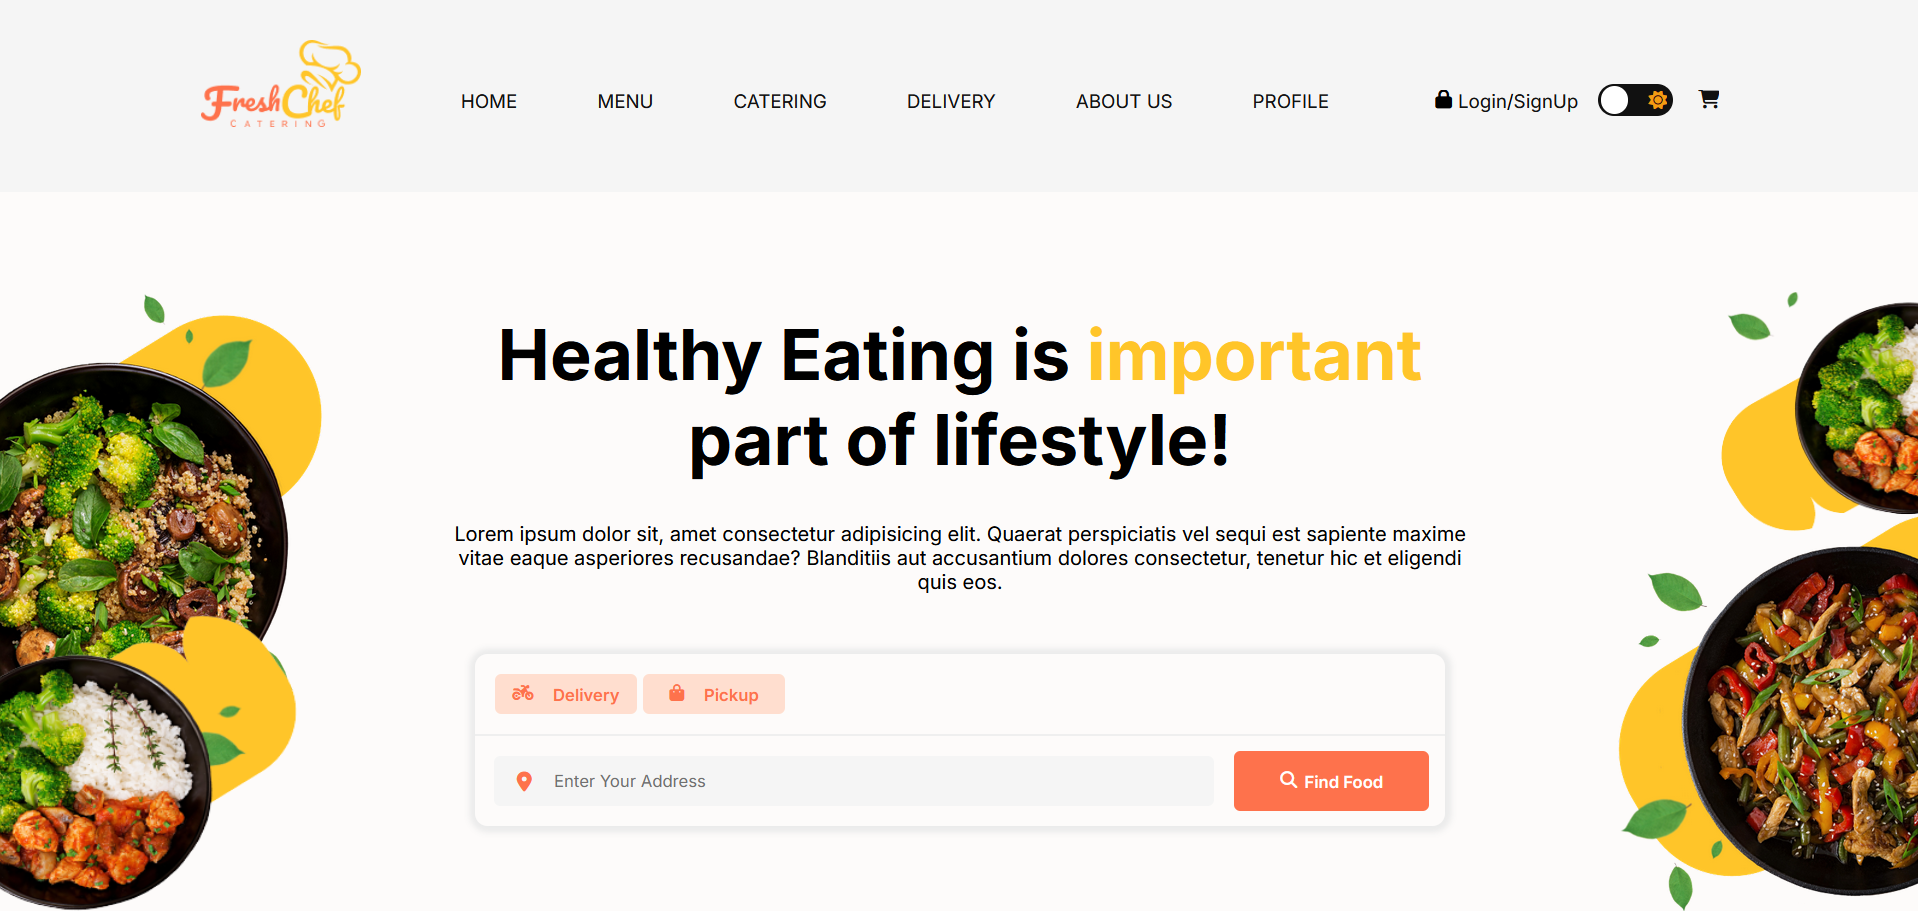
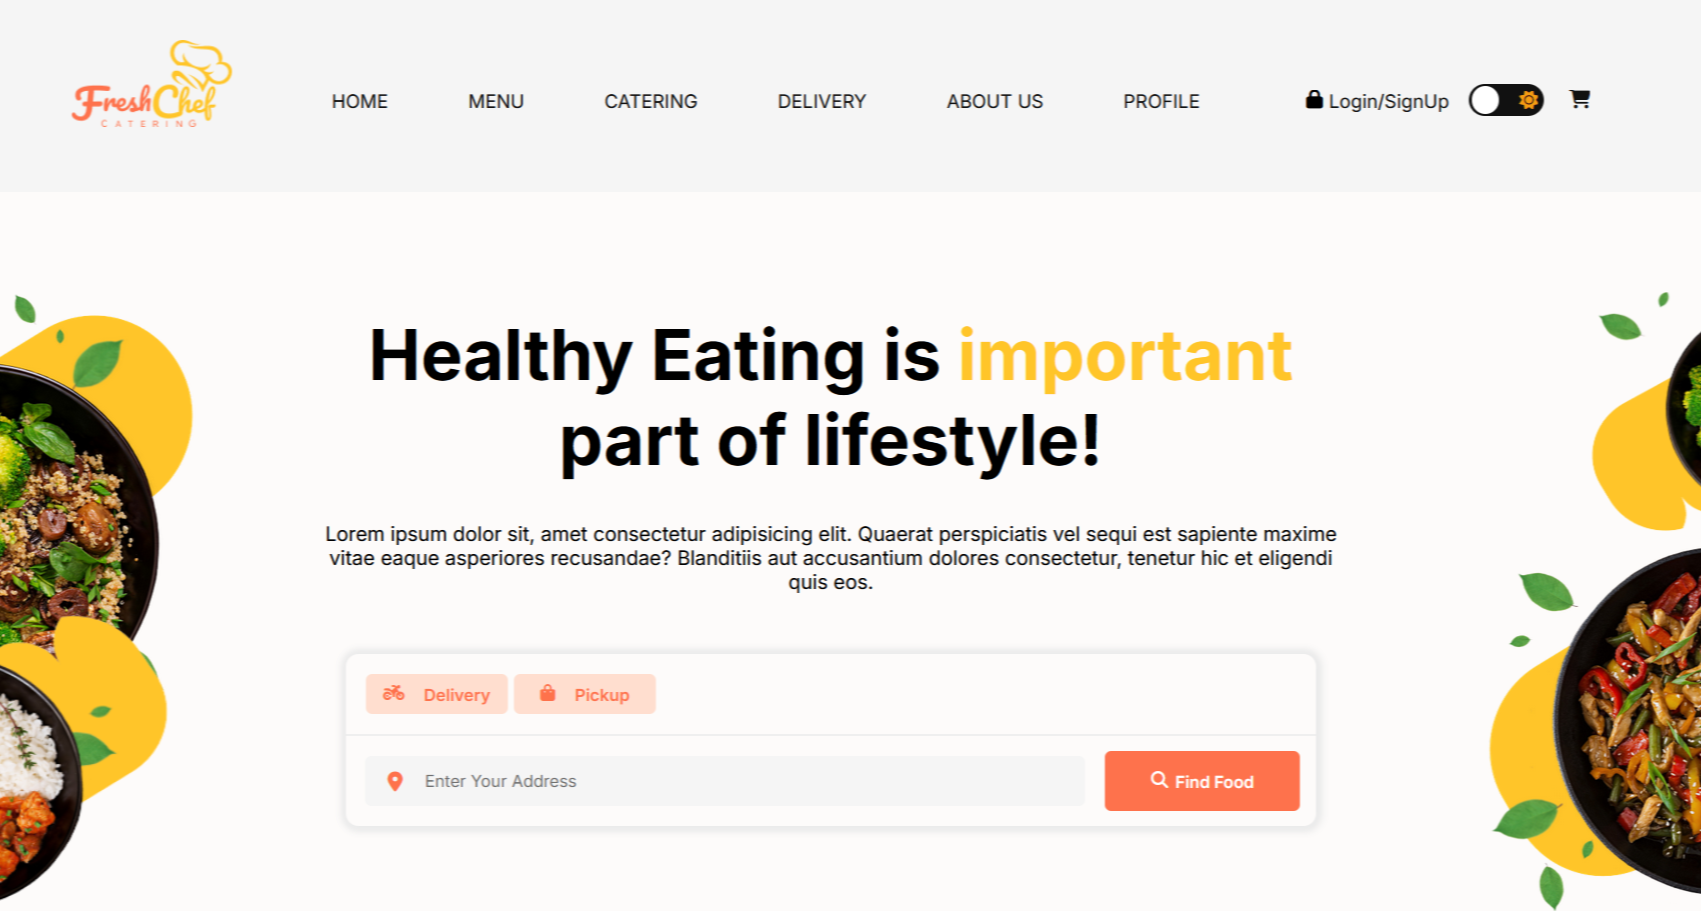
updated_2026_January_data

diff --git a/index.html b/index.html
@@ -6,7 +6,7 @@
     <meta name="viewport" content="width=device-width, initial-scale=1, shrink-to-fit=no">
     <meta name="description" content="Start your development with Meyawo landing page.">
     <meta name="author" content="Devcrud">
-    <title>Nadeera Binoli | Front end developer</title>
+    <title>Nadeera Binoli | Full-Stack developer</title>
     <!-- Bootstrap + Meyawo main styles -->
     <link rel="stylesheet" href="assets/css/meyawo.css">
     <!-- font awesome link -->
@@ -58,7 +58,7 @@
                 <span class="up">Ayubowan!</span>
                 <span class="down">I'm Nadeera Binoli</span>
             </h1>
-            <p class="header-subtitle">FRONTEND DEVELOPER</p>
+            <p class="header-subtitle">FULL-STACK DEVELOPER</p>
 
             <div class="socialIcons">
                 <a href="https://github.com/NadeeraBinoli"><i class="fa-brands fa-github"></i></a>
@@ -143,7 +143,15 @@
                     <p class="section-subtitle">Who Am I ?</p>
                     <h2 class="section-title mb-3">About Me</h2>
                     <p>
-                        Hello! I’m Nadeera Binoli. I am a Front-end developer based in Sri Lanka, currently studying for a Bachelor of Information Technology (BIT) at ESOFT Metro Campus.I'm in my second year and have a strong passion for creating websites. I love learning new things on my own, working for myself to improve my skills, and keeping up with the latest web trends. Check out my portfolio to see some of the projects I've worked on. Each one shows my dedication to making user-friendly and attractive websites. </p>
+                        Hello! I’m Nadeera Binoli. I’m a 4th-year Bachelor of Information Technology (Honours) undergraduate, specializing in Software Engineering, and currently working as a Full-Stack Developer Intern @ TechSeed Lanka. <br><br>
+
+My journey into tech began with curiosity and quickly grew into a drive to create systems that solve real-world problems—especially those that impact people’s daily lives. <br><br>
+
+I enjoy taking ideas from concept to implementation, working across both front-end and back-end to deliver reliable and scalable applications. I consider myself a strong problem solver, a fast learner, and someone who enjoys tackling challenges through logical thinking and continuous improvement.<br><br>
+
+My ultimate goal is to become a well-rounded software engineer who not only writes code but creates impact.<br><br>
+
+Let’s connect if you're into tech, startups, or just enjoy building cool things from scratch! </p>
                     <button class="btn btn-outline-primary  mt-4">Download CV</button>
                 </div>
             </div><!-- end of about wrapper -->
@@ -181,9 +189,12 @@
                             <h5>HTML</h5>
                             <h5>CSS</h5>
                             <h5>JavaScript</h5>
+                            <h5>Laravel</h5>
+                            <h5>Vue.js</h5>
                             <h5>Java</h5>
                             <h5>C</h5>
-                            <h5>MySql</h5>
+                            <h5>C#</h5>
+                            <h5>MySQL</h5>
                             <h5>Bootstrap</h5>
                             <h5>PHP</h5>
                             <h5>Node.js</h5> 
@@ -223,17 +234,17 @@
                         <h4>Bachelor of Information Technology Honours</h4>
                         <h5>2022 - Present</h5>
                         <p><em>ESOFT Metro Campus, Colombo, Sri Lanka</em></p>
-                        <p>Course which is held in four years, I'm currently on my 2nd year (3.20 GPA) and expected to graduate in 2026. Expecting to start my specialization based on software engineering from next year.</p>
+                        <p>Course which is held in four years, I'm currently on my final year (3.55 GPA) and expected to graduate in 2026. Expecting to start my specialization based on software engineering from next year.</p>
                     </div>
                 </div>
                 <div class="col-lg-6">
                     <h3 class="resume-title">Professional Experience</h3>
                     <div class="resume-item">
-                        <h4>Project Basis Developer</h4>
-                        <h5>2023 - Present</h5>
+                        <h4>Full-Stack Developer Intern</h4>
+                        <h5>2025 September - Present</h5>
                         <p><em>TechSeed Lanka pvt (ltd) </em></p>
                         <p>
-                           Working on Project based development projects under web development, had worked with HTML, CSS, JS, Bootstrap, PHP. 
+                           Currently working as a Full-Stack Developer Intern, contributing to the development and enhancement of enterprise-level web applications using Laravel, Vue.js, and MySQL. My responsibilities include implementing backend business logic, developing RESTful APIs, handling complex data operations, and building responsive front-end interfaces. I also assist with system optimization, bug fixing, and feature improvements while following coding standards and best practices. 
                         </p>
                     </div>
                 </div>
@@ -259,8 +270,8 @@
                     </p>
                     <div class="portfolio-card-overlay">
                         <div class="portfolios-links">
-                            <a href="https://nadeerabinoli.github.io/Advice-generator/" class="underline">Live project</a>
-                            <a href="https://github.com/NadeeraBinoli/Advice-generator" class="underline">View Code</a>
+                            <a href="https://nadeerabinoli.github.io/Advice-generator/" class="underline" target="_blank" rel="noopener noreferrer">Live project</a>
+                            <a href="https://github.com/NadeeraBinoli/Advice-generator" class="underline" target="_blank" rel="noopener noreferrer">View Code</a>
                         </div>
                     </div>
                 </div>
@@ -273,8 +284,8 @@
                     </p>
                     <div class="portfolio-card-overlay">
                         <div class="portfolios-links">
-                            <a href="https://nadeerabinoli.github.io/order-summery/" class="underline">Live project</a>
-                            <a href="https://github.com/NadeeraBinoli/order-summery" class="underline">View Code</a>
+                            <a href="https://nadeerabinoli.github.io/order-summery/" class="underline" target="_blank" rel="noopener noreferrer">Live project</a>
+                            <a href="https://github.com/NadeeraBinoli/order-summery" class="underline" target="_blank" rel="noopener noreferrer">View Code</a>
                         </div>
                     </div>
                 </div>
@@ -288,8 +299,8 @@
                     </p>
                     <div class="portfolio-card-overlay">
                         <div class="portfolios-links">
-                            <a href="https://nadeerabinoli.github.io/personal-blog/" class="underline">Live project</a>
-                            <a href="https://github.com/NadeeraBinoli/personal-blog" class="underline">View Code</a>
+                            <a href="https://nadeerabinoli.github.io/personal-blog/" class="underline" target="_blank" rel="noopener noreferrer">Live project</a>
+                            <a href="https://github.com/NadeeraBinoli/personal-blog" class="underline" target="_blank" rel="noopener noreferrer">View Code</a>
                         </div>
                     </div>
                 </div>
@@ -304,8 +315,8 @@
                     </p>
                     <div class="portfolio-card-overlay">
                         <div class="portfolios-links">
-                            <a href="https://nadeerabinoli.github.io/product-preview-card/" class="underline">Live project</a>
-                            <a href="https://github.com/NadeeraBinoli/product-preview-card" class="underline">View Code</a>
+                            <a href="https://nadeerabinoli.github.io/product-preview-card/" class="underline" target="_blank" rel="noopener noreferrer">Live project</a>
+                            <a href="https://github.com/NadeeraBinoli/product-preview-card" class="underline" target="_blank" rel="noopener noreferrer">View Code</a>
                         </div>
                     </div>
                 </div>
@@ -319,8 +330,8 @@
                     </p>
                     <div class="portfolio-card-overlay">
                         <div class="portfolios-links">
-                            <a href="https://nadeerabinoli.github.io/Aden-Waller/" class="underline">Live project</a>
-                            <a href="https://github.com/NadeeraBinoli/Aden-Waller" class="underline">View Code</a>
+                            <a href="https://nadeerabinoli.github.io/Aden-Waller/" class="underline" target="_blank" rel="noopener noreferrer">Live project</a>
+                            <a href="https://github.com/NadeeraBinoli/Aden-Waller" class="underline" target="_blank" rel="noopener noreferrer">View Code</a>
                         </div>
                     </div>
                 </div>
@@ -334,8 +345,8 @@
                     </p>
                     <div class="portfolio-card-overlay">
                         <div class="portfolios-links">
-                            <a href="https://nadeerabinoli.github.io/ShopWithUs/" class="underline">Live project</a>
-                            <a href="https://github.com/NadeeraBinoli/ShopWithUs" class="underline">View Code</a>
+                            <a href="https://nadeerabinoli.github.io/ShopWithUs/" class="underline" target="_blank" rel="noopener noreferrer">Live project</a>
+                            <a href="https://github.com/NadeeraBinoli/ShopWithUs" class="underline"target="_blank" rel="noopener noreferrer">View Code</a>
                         </div>
                     </div>
                 </div>
@@ -352,7 +363,26 @@
                     </p>
                     <div class="portfolio-card-overlay">
                         <div class="portfolios-links">
-                            <a href="https://github.com/NadeeraBinoli/Fresh-Chef" class="underline">View Code</a>
+                            <a href="https://github.com/NadeeraBinoli/Fresh-Chef" class="underline"target="_blank" rel="noopener noreferrer">View Code</a>
+                        </div>
+                    </div>
+                </div>
+                <div class="portfolios-item col-md-4">
+                    <img class="portfolios-image" src="assets/imgs/project8.png" alt="screenshot of design portfolio website"/>
+                    <h3 class="portfolios-name">Nutri-Assist – Meal Planning & Health Tracking System</h3>
+                    <p class="portfolios-tags">
+                    <span>HTML</span>
+                    <span>CSS</span>
+                    <span>JS</span>
+                    <span>Python</span>
+                    <span>MySQL</span>
+                    <span>Git</span>
+                    <span>Figma</span>
+                    </p>
+                    <div class="portfolio-card-overlay">
+                        <div class="portfolios-links">
+                            <a href="https://github.com/NadeeraBinoli/Nutri-Assist" class="underline" target="_blank" rel="noopener noreferrer">View Code</a>
+                            <a href="https://www.figma.com/design/yOyA2r1qj92893SyEaXhN5/Nutri-Assist-Prototype?node-id=2-5272&t=76z9tjbtivZQrzem-1" class="underline" target="_blank" rel="noopener noreferrer">View Design</a>
                         </div>
                     </div>
                 </div>
@@ -365,7 +395,7 @@
     <section class="section" id="blog">
         <!-- container -->
         <div class="container text-center">
-            <p class="section-subtitle"><a href="https://dev.to/nadeerabinoli">Recent Posts?</a></p>
+            <p class="section-subtitle"><a href="https://dev.to/nadeerabinoli" target="_blank" rel="noopener noreferrer">Recent Posts?</a></p>
             <h6 class="section-title mb-6">Blog</h6>
             <!-- blog-wrapper -->
             <div class="blog-card">
@@ -387,7 +417,7 @@
                         </p>
                         <p>Let's dig in to understand what is this paradox!</p>
 
-                        <a href="https://dev.to/nadeerabinoli/keywords-vs-reserved-words-in-java-whats-the-difference-1lc2" class="blog-card-link">Read more <i class="fa-solid fa-angles-right"></i></a>
+                        <a href="https://dev.to/nadeerabinoli/keywords-vs-reserved-words-in-java-whats-the-difference-1lc2" class="blog-card-link" target="_blank" rel="noopener noreferrer">Read more <i class="fa-solid fa-angles-right"></i></a>
                 </div>
             </div><!-- end of blog wrapper -->
         </div><!-- end of container -->
